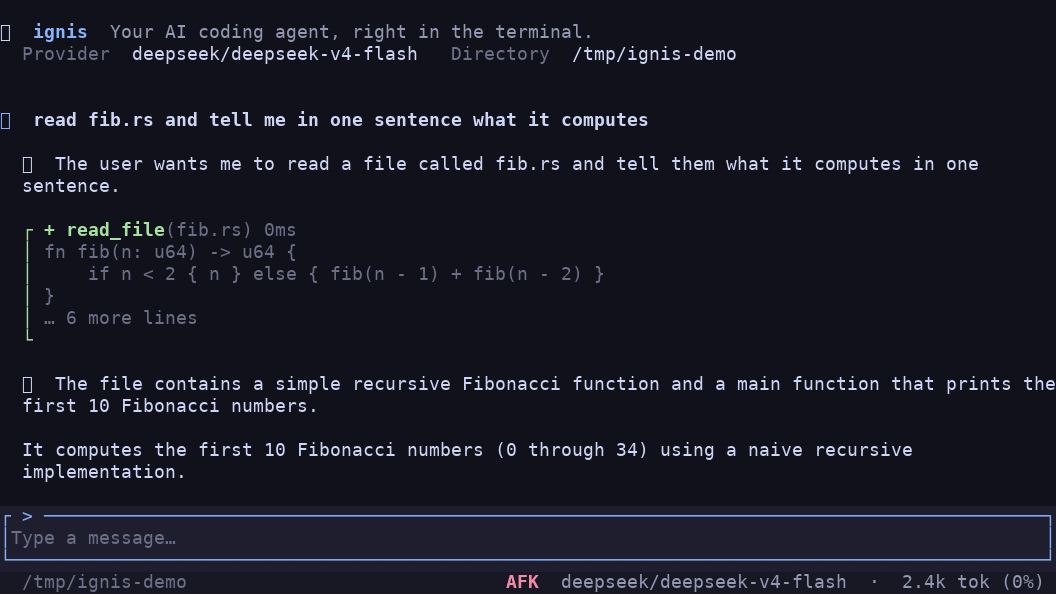
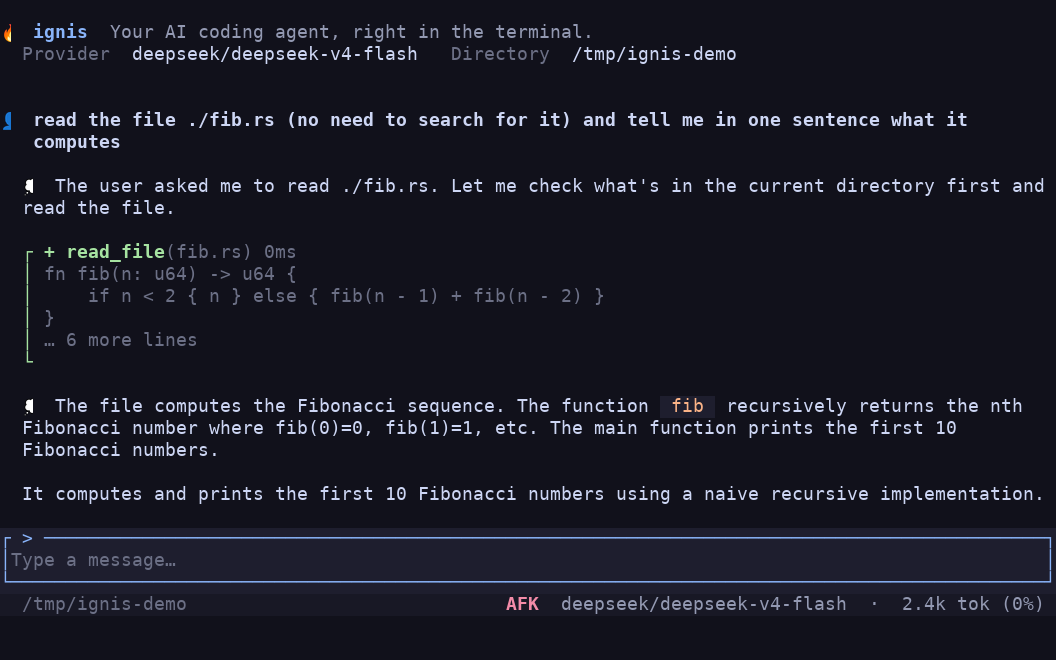
docs: sharpen description + render screenshot emoji (no tofu)

diff --git a/README.md b/README.md
@@ -4,8 +4,9 @@
 
 **Your AI coding agent, right in the terminal.**
 
-A single-binary, multi-provider coding agent — an interactive TUI and a one-shot
-CLI, with built-in tools, MCP servers, skills, and a permission system.
+Bring your own model — OpenAI, Anthropic, Gemini, DeepSeek, Kimi, or local
+Ollama — and switch between them mid-session, all from one fast, self-contained
+binary. No Node, no Python, no vendor lock-in.
 
 [![CI](https://github.com/Fullstop000/ignis/actions/workflows/ci.yml/badge.svg)](https://github.com/Fullstop000/ignis/actions/workflows/ci.yml)
 [![Release](https://img.shields.io/github/v/release/Fullstop000/ignis?sort=semver)](https://github.com/Fullstop000/ignis/releases)